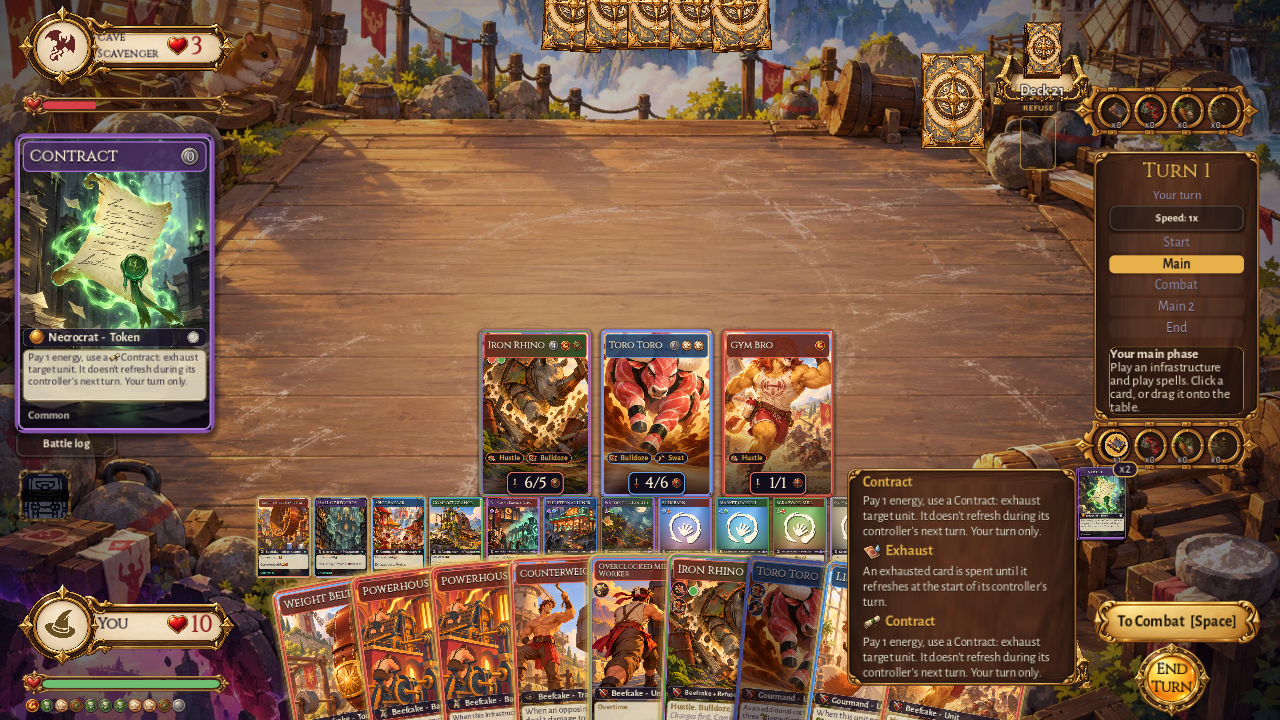
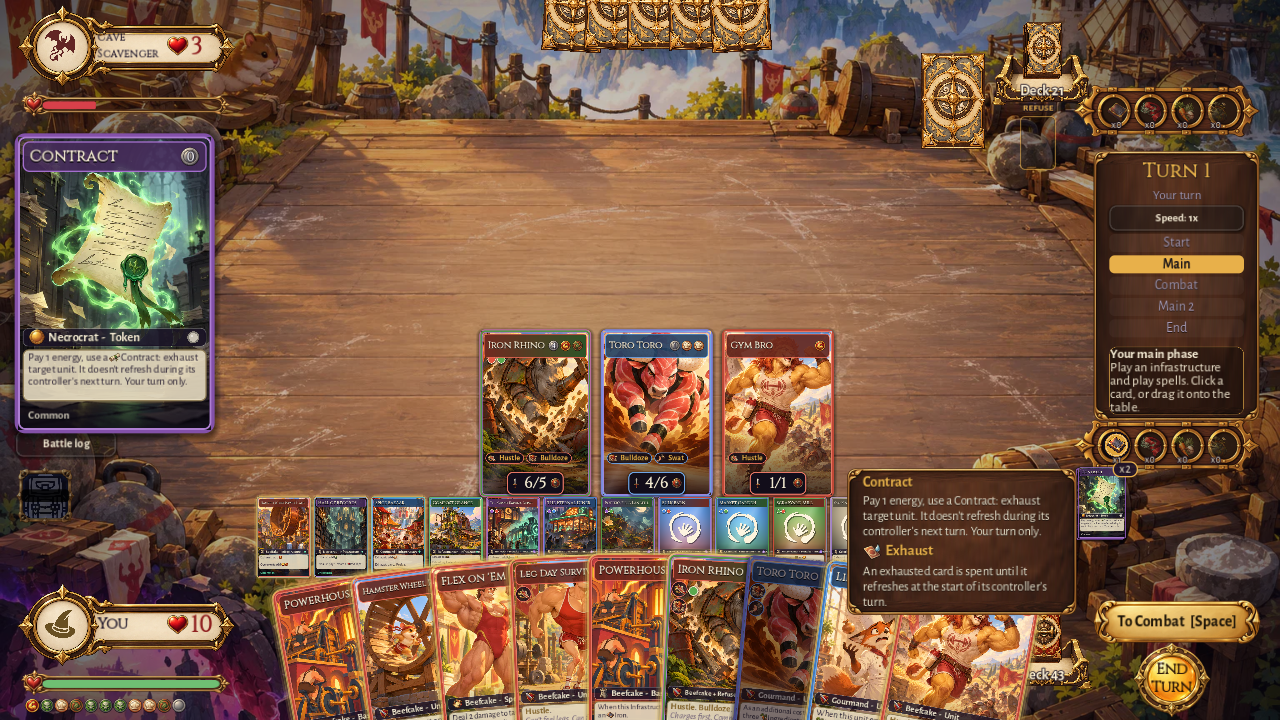
Overnight Oct 19, Phase 2 cycle 15: a token's tip box no longer repeats its ability text as a glossary entry

Changed region(s): [[0.2188, 0.7639, 0.5312, 1.0], [0.6562, 0.825, 0.8438, 0.9778]]

diff --git a/docs/overnight/loop_log.md b/docs/overnight/loop_log.md
@@ -86,3 +86,7 @@ Phase 2 started Mon Oct 19 ~23:30 (Parts 1-7 done; scorecard re-scored with "Dia
 - Found on the way: the per-piece fade only fully fades a wall piece whose centre is >= 0.9 m in front of the hero along the sight line, so
   a hero pressed against a 4.5 m wall was only ~1/3 faded. The ramp is now 0.45 -> 0.05 m (`dna_fade.gdshader`). Walk smoke OK; D.N.A.
   tests OK; shots `_screenshots/oct19n_c14_*.png`.
+
+## Cycle 15 - Combat feel (8.5): the token's tip box repeated its text
+- A Contract token showed its ability text and then the same text again as its glossary entry. A glossary entry identical to the card's
+  ability text is skipped now (`BattleHud.show_preview`). Shot `_screenshots/oct19n/p2_after_token_0.png` (re-taken). Tip tests OK.
